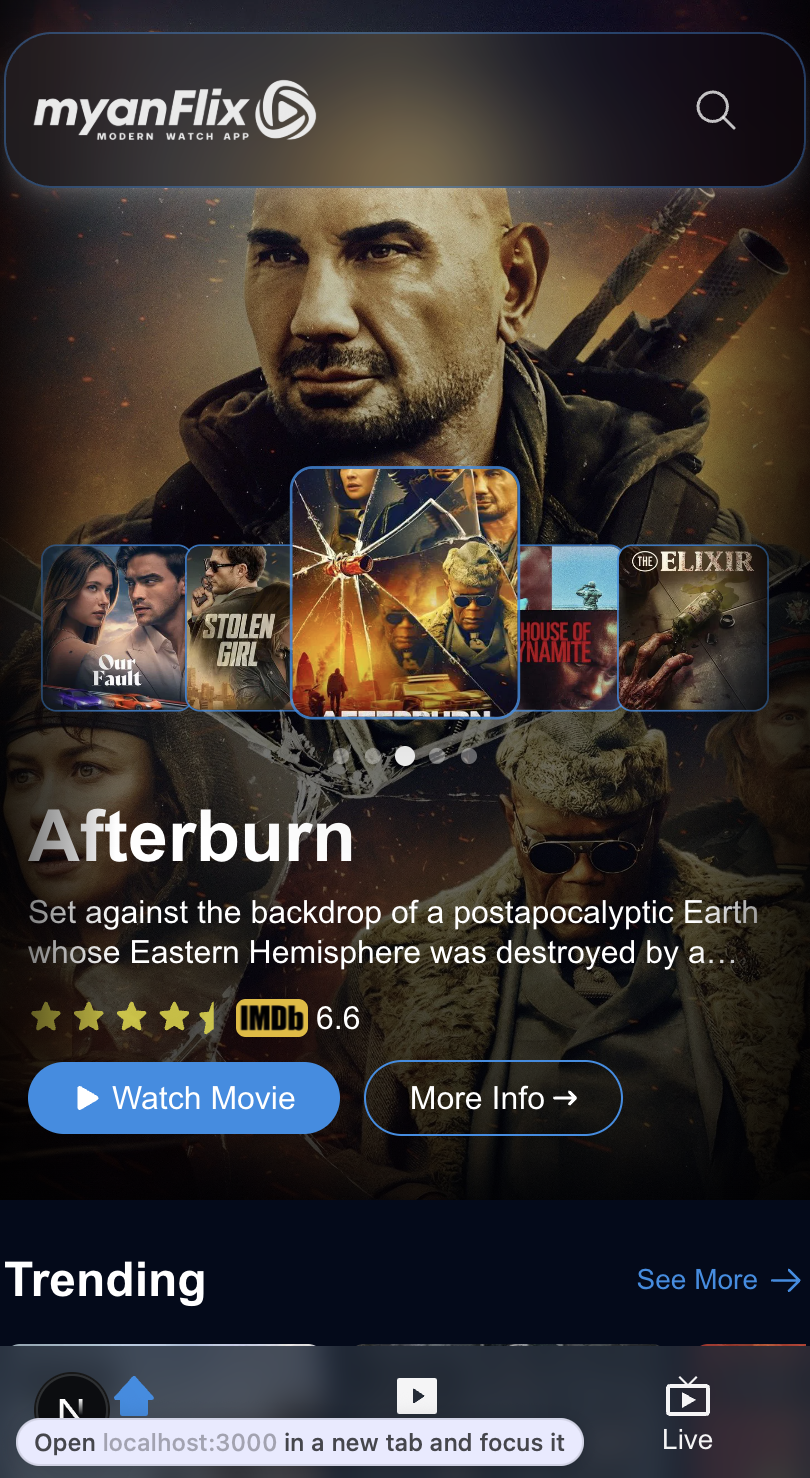
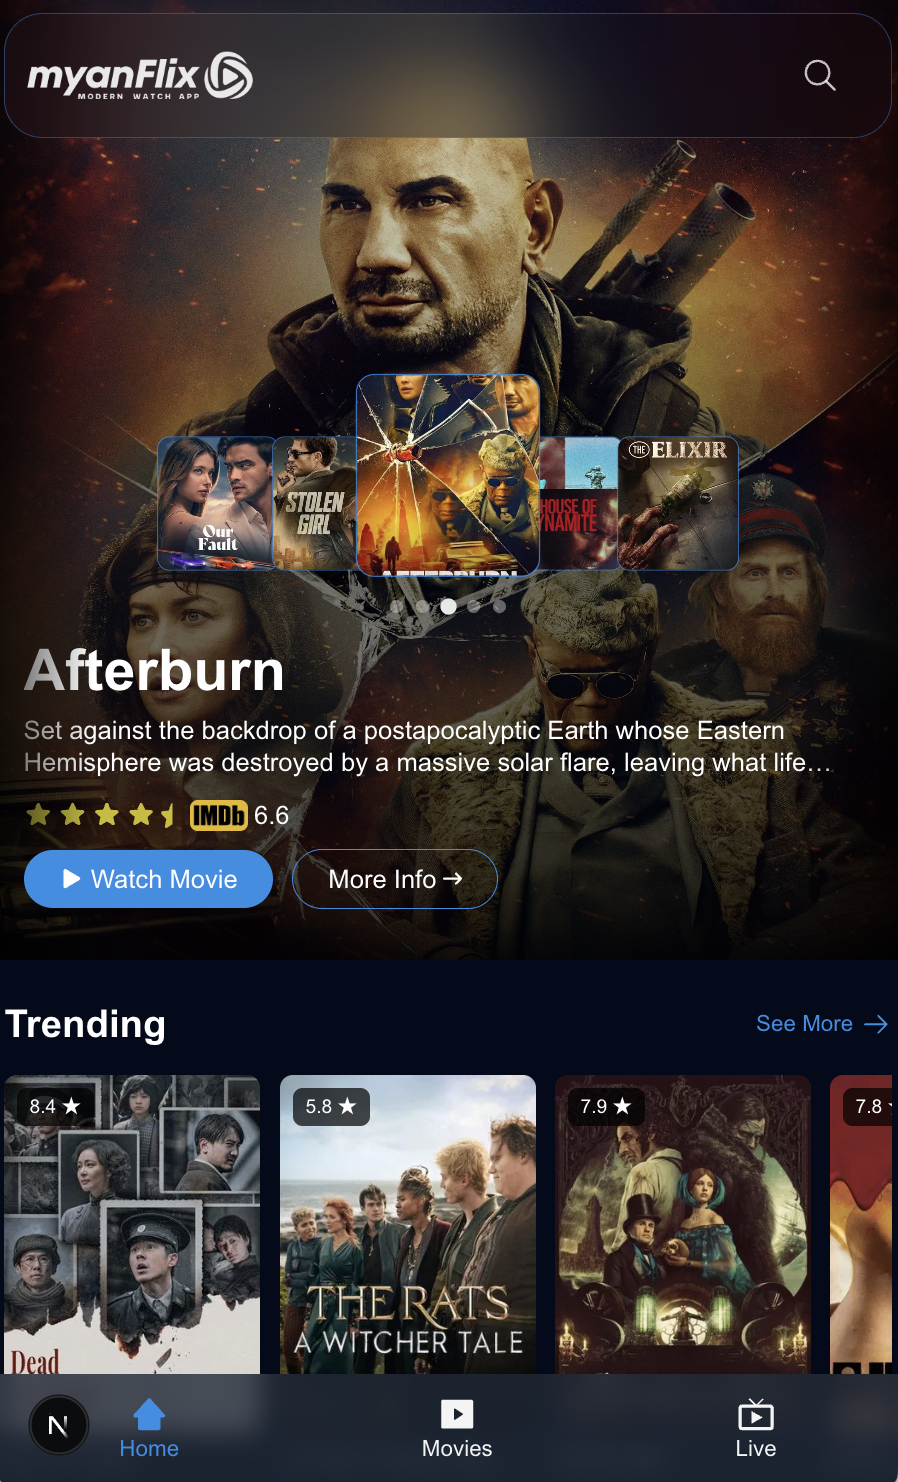
Revised video player

diff --git a/src/app/videoplayer/[slug]/page.tsx b/src/app/videoplayer/[slug]/page.tsx
@@ -2,13 +2,10 @@
 
 import { useParams, useRouter } from "next/navigation"
 import { useEffect, useState, useRef, useCallback } from "react";
-import { FaPlay } from "react-icons/fa6";
 import Spinner from "@/components/atoms/Spinner";
-import VideoPlayerNavigator from "@/components/player/VideoPlayerNavigator";
 import { MovieDetails } from "@/app/details/[slug]/page";
 import MovieDetailsAtPlayer from "@/components/layout/MovieDetailsAtPlayer";
-import VideoProgressBar from "@/components/atoms/VideoProgressBar";
-import { get } from "http";
+
 
 const API_KEY = process.env.NEXT_PUBLIC_TMDB_API_KEY!
 const TORRENT_BACKEND_URL = process.env.NEXT_PUBLIC_TORRENT_BACKEND_URL
@@ -60,7 +57,7 @@ export default function ProfessionalVideoPlayer() {
   const controlsTimeoutRef = useRef<NodeJS.Timeout | undefined>(undefined);
   const containerRef = useRef<HTMLDivElement>(null);
   const settingsRef = useRef<HTMLDivElement>(null);
-
+  const [subtitleBlobUrl, setSubtitleBlobUrl] = useState<string | null>(null);
   const loadMovieData = useCallback(async () => {
     try {
       setLoading(true);
@@ -346,43 +343,26 @@ export default function ProfessionalVideoPlayer() {
   }, [slug, loadMovieData]);
 
   useEffect(() => {
-    const updateSubtitleTrack = async () => {
-      if (!selectedTorrent || !selectedSubtitle || !movieInfo || duration <= 0) return;
+  const loadSubtitle = async () => {
+    if (!selectedTorrent || !selectedSubtitle) return;
+    try {
+      const res = await fetch(getSubtitleUrl(selectedTorrent, selectedSubtitle));
+      if (!res.ok) throw new Error("Subtitle fetch failed");
+      const vttText = await res.text();
+      const blob = new Blob([vttText], { type: "text/vtt" });
+      const url = URL.createObjectURL(blob);
+      setSubtitleBlobUrl(url);
+    } catch (err) {
+      console.error(err);
+    }
+  };
 
-      try {
-        const res = await fetch(getSubtitleUrl(selectedTorrent, selectedSubtitle));
-        if (!res.ok) throw new Error("Subtitle fetch failed");
+  loadSubtitle();
 
-        const vttText = await res.text();
-        const blob = new Blob([vttText], { type: "text/vtt" });
-        const url = URL.createObjectURL(blob);
-
-        const videoEl = videoRef.current;
-        const trackEl = videoEl?.querySelector('track') as HTMLTrackElement | null;
-        if (trackEl) {
-          if (trackEl.src.startsWith("blob:")) {
-            URL.revokeObjectURL(trackEl.src);
-          }
-          trackEl.src = url;
-          trackEl.track.mode = 'disabled'; 
-          trackEl.track.mode = 'showing';  
-        }
-      } catch (err) {
-        console.error("Failed to load subtitle:", err);
-      }
-    };
-
-    updateSubtitleTrack();
-
-
-    const videoEl = videoRef.current;
-    return () => {
-      const trackEl = videoEl?.querySelector('track') as HTMLTrackElement | null;
-      if (trackEl && trackEl.src.startsWith("blob:")) {
-        URL.revokeObjectURL(trackEl.src);
-      }
-    };
-  }, [selectedTorrent, selectedSubtitle, movieInfo, duration, subtitleOffset, getSubtitleUrl]);
+  return () => {
+    if (subtitleBlobUrl) URL.revokeObjectURL(subtitleBlobUrl);
+  };
+}, [selectedTorrent, selectedSubtitle, subtitleOffset]);
 
 
   useEffect(() => {
@@ -491,6 +471,7 @@ export default function ProfessionalVideoPlayer() {
           onProgress={handleProgress} 
           onClick={togglePlay}
           crossOrigin="anonymous" 
+          controls
         >
           {selectedTorrent && (
             <source
@@ -498,77 +479,16 @@ export default function ProfessionalVideoPlayer() {
               type="video/mp4"
             />
           )}
-          {selectedSubtitle && selectedTorrent && movieInfo && duration > 0 && (
+          {subtitleBlobUrl && (
             <track
-              key={`subtrack-${selectedSubtitle}-${subtitleOffset}`}
-              label={subtitleLanguages.find(lang => lang.code === selectedSubtitle)?.name || selectedSubtitle}
               kind="subtitles"
+              src={subtitleBlobUrl}
               srcLang={selectedSubtitle}
-              src={getSubtitleUrl(selectedTorrent, selectedSubtitle)}
+              label={subtitleLanguages.find(l => l.code === selectedSubtitle)?.name || selectedSubtitle}
               default
             />
           )}
-          Your browser does not support the video tag.
         </video>
-
-        {!isPlaying && !buffering && (
-          <div className="absolute inset-0 flex items-center justify-center z-10">
-            <button
-              onClick={(e) => {
-                e.stopPropagation(); 
-                togglePlay();
-              }}
-              className="flex items-center justify-center bg-[#228EE5]/90 hover:bg-[#1a7bc9] rounded-full p-6 sm:p-8 transition-all duration-200 transform hover:scale-105 opacity-90 hover:opacity-100"
-              title={videoRef.current?.paused ? "Play (k)" : "Pause (k)"}
-            >
-              <FaPlay className="w-7 h-7" />
-            </button>
-          </div>
-        )}
-
-        {showControls && (
-          <div className="absolute top-0 left-0 right-0 h-32 bg-linear-to-b from-black/70 to-transparent pointer-events-none"></div>
-        )}
-
-        {showControls && (
-          <div className="absolute bottom-0 left-0 right-0 bg-linear-to-t from-black/90 to-transparent p-2 sm:p-4 z-10"
-                onMouseMove={(e) => e.stopPropagation()}>
-            <VideoProgressBar
-              currentTime={currentTime}
-              duration={duration}
-              handleSeek={handleSeek}
-            />
-
-            {/* VideoPlayerNavigator */}
-            <VideoPlayerNavigator
-              togglePlay={togglePlay}
-              isPlaying={isPlaying}
-              quickSeek={quickSeek}
-              toggleMute={toggleMute}
-              isMuted={isMuted}
-              volume={volume}
-              currentTime={currentTime}
-              duration={duration}
-              handleVolumeChange={handleVolumeChange}
-              handleOffsetChange={handleOffsetChange}
-              subtitleOffset={subtitleOffset}
-              resetSubtitleSettings={resetSubtitleSettings}
-              settingsRef={settingsRef}
-              showSettings={showSettings}
-              setShowSettings={setShowSettings}
-              toggleFullscreen={toggleFullscreen}
-              isFullscreen={isFullscreen}
-              torrents={torrents}
-              selectedTorrent={selectedTorrent}
-              handleTorrentSelect={handleTorrentSelect}
-              subtitleLanguages={subtitleLanguages}
-              selectedSubtitle={selectedSubtitle}
-              setSelectedSubtitle={setSelectedSubtitle}
-              subtitleSize={subtitleSize}
-              handleSubtitleSizeChange={handleSubtitleSizeChange}
-            />
-          </div>
-        )}
       </div>
 
      <MovieDetailsAtPlayer movieInfo={movieInfo!} subtitleLanguages={subtitleLanguages} loading={loading} />

diff --git a/src/navigation/Navbar.tsx b/src/navigation/Navbar.tsx
@@ -3,15 +3,9 @@
 import NavbarData from "../data/navbar.data";
 import Link from "next/link";
 import { usePathname } from "next/navigation";
-import { IoSearchOutline } from "react-icons/io5";
-import { IoNotifications } from "react-icons/io5";
-import { TbBrightnessUpFilled } from "react-icons/tb";
-import { RxHamburgerMenu } from "react-icons/rx";
 import Image from "next/image";
 import Search from "@/components/atoms/Search";
 import { useEffect, useState } from "react";
-import GlobalImage from "@/components/atoms/GlobalImage";
-import dayjs from "dayjs";
 import useSWR from "swr";
 import { FootballMatch } from "@/components/player/LiveStreamPlayerApp";
 import { fetcher } from "@/lib/fetcher";
@@ -95,7 +89,7 @@ export default function Navbar() {
   return (
     <nav
       className="sm:max-w-2xl md:max-w-3xl lg:max-w-5xl max-w-6xl sm:mx-auto py-1 px-2
-                rounded-3xl mb-6 fixed top-4 sm:top-6
+                rounded-3xl mb-6 fixed top-2 sm:top-6
                 left-0 right-0
                 bg-black/10
                 backdrop-blur-[30px]

diff --git a/src/app/api/live/route.ts b/src/app/api/live/route.ts
@@ -2,7 +2,6 @@
 import { NextResponse } from "next/server";
 import { findTeamMatch, findLeagueMatch, calculateSimilarity } from "@/lib/teamMatching";
 
-const RESULT_PARENT_URL = "https://sport.ibet288.com/_view/Result.aspx";
 const BASE_URL = "https://json.vnres.co";
 
 interface IbetResult {
@@ -108,14 +107,7 @@ async function getCachedIbetResults(): Promise<IbetResult[]> {
 
 async function fetchIbetResults(): Promise<IbetResult[]> {
   try {
-    const res = await fetch(RESULT_PARENT_URL, {
-      headers: {
-        "User-Agent": "Mozilla/5.0",
-        Accept: "text/html",
-        Referer: "https://www.google.com",
-      },
-      next: { revalidate: 180 },
-    });
+    const res = await fetch("https://proxy-ibet.aunghein-mm.workers.dev");
     const html = await res.text();
     const tableMatch = html.match(/<table[^>]*id="g1"[^>]*>([\s\S]*?)<\/table>/i);
     if (!tableMatch) return [];

diff --git a/src/navigation/FloatingNavbar.tsx b/src/navigation/FloatingNavbar.tsx
@@ -9,7 +9,7 @@ export default function FloatingNavbar() {
   return (
     <nav
       className="fixed bottom-0 left-0 right-0 z-50 bg-gray-800/80 backdrop-blur-sm 
-                 block sm:hidden h-[70px] flex items-center justify-around"
+                 block sm:hidden h-[70px] flex items-center justify-around fixed-bottom-safe"
     >
       {NavbarData.map((item) => {
         const isActive =

diff --git a/src/app/globals.css b/src/app/globals.css
@@ -65,3 +65,14 @@ body {
 .hide-cursor {
   cursor: none !important;
 }
+
+.fixed-bottom-safe {
+  bottom: 0;
+  padding-bottom: env(safe-area-inset-bottom); 
+}
+
+
+.fixed-top-safe {
+  top: 0;
+  padding-top: env(safe-area-inset-top); 
+}
